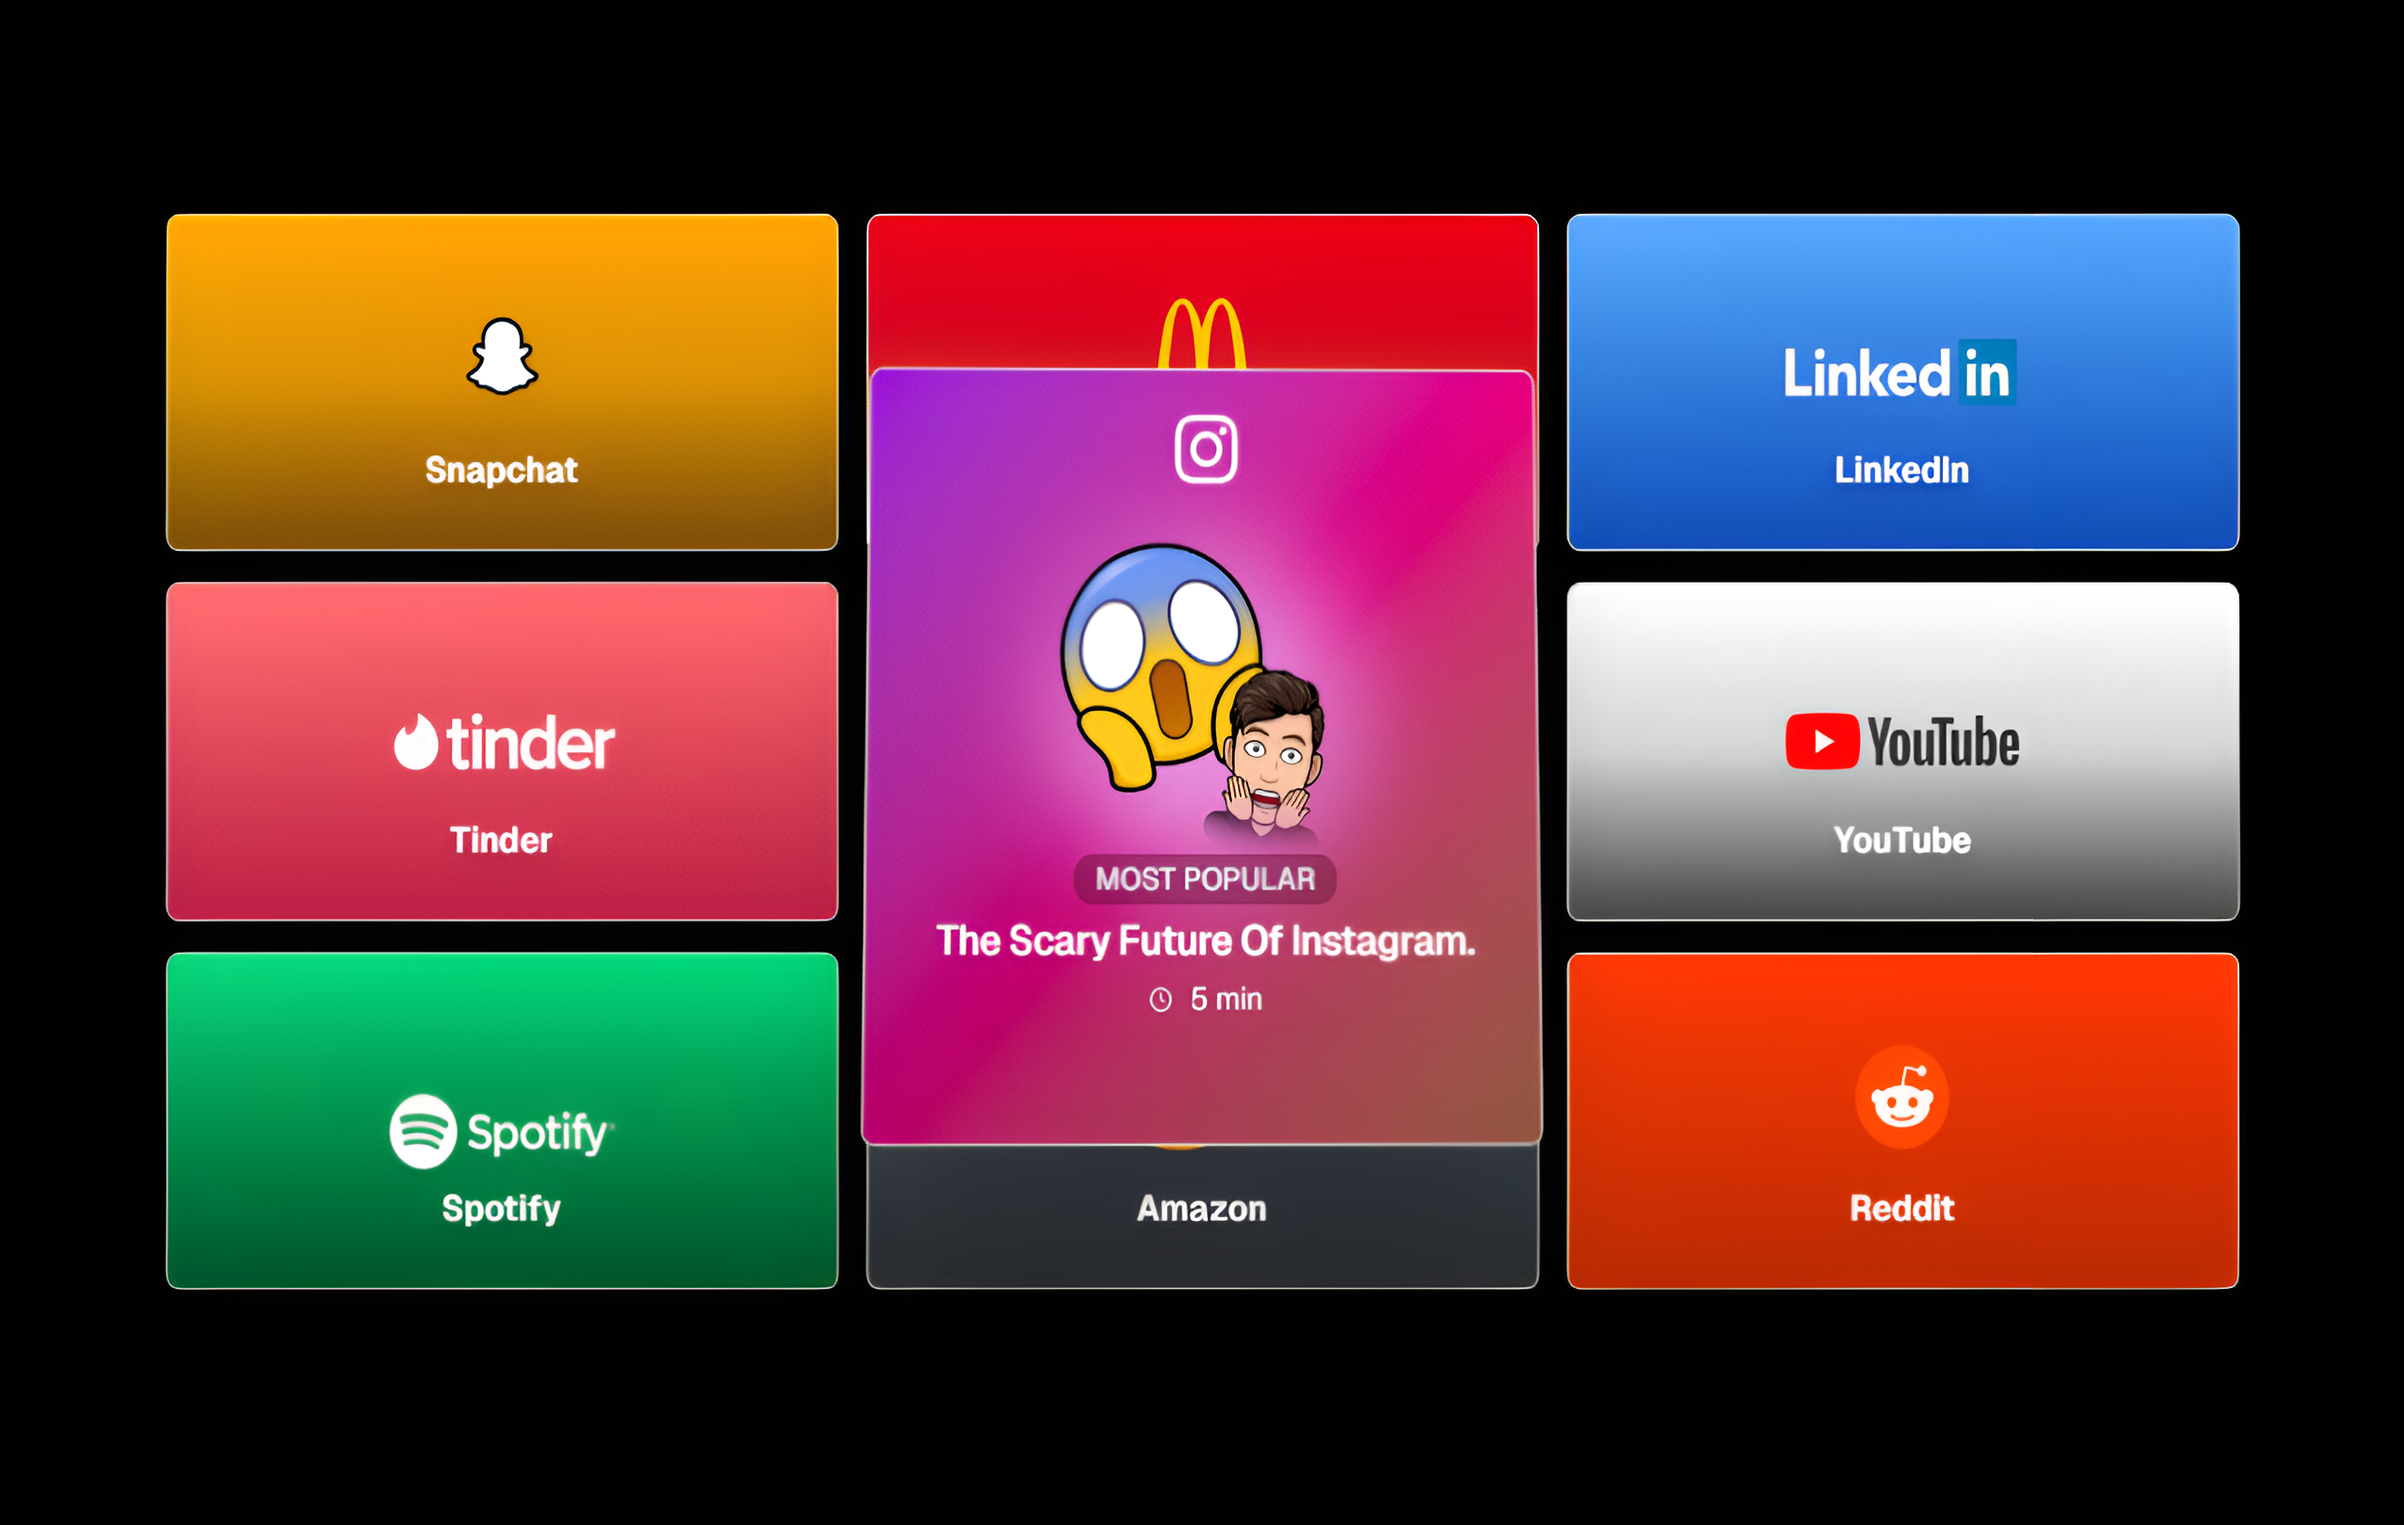
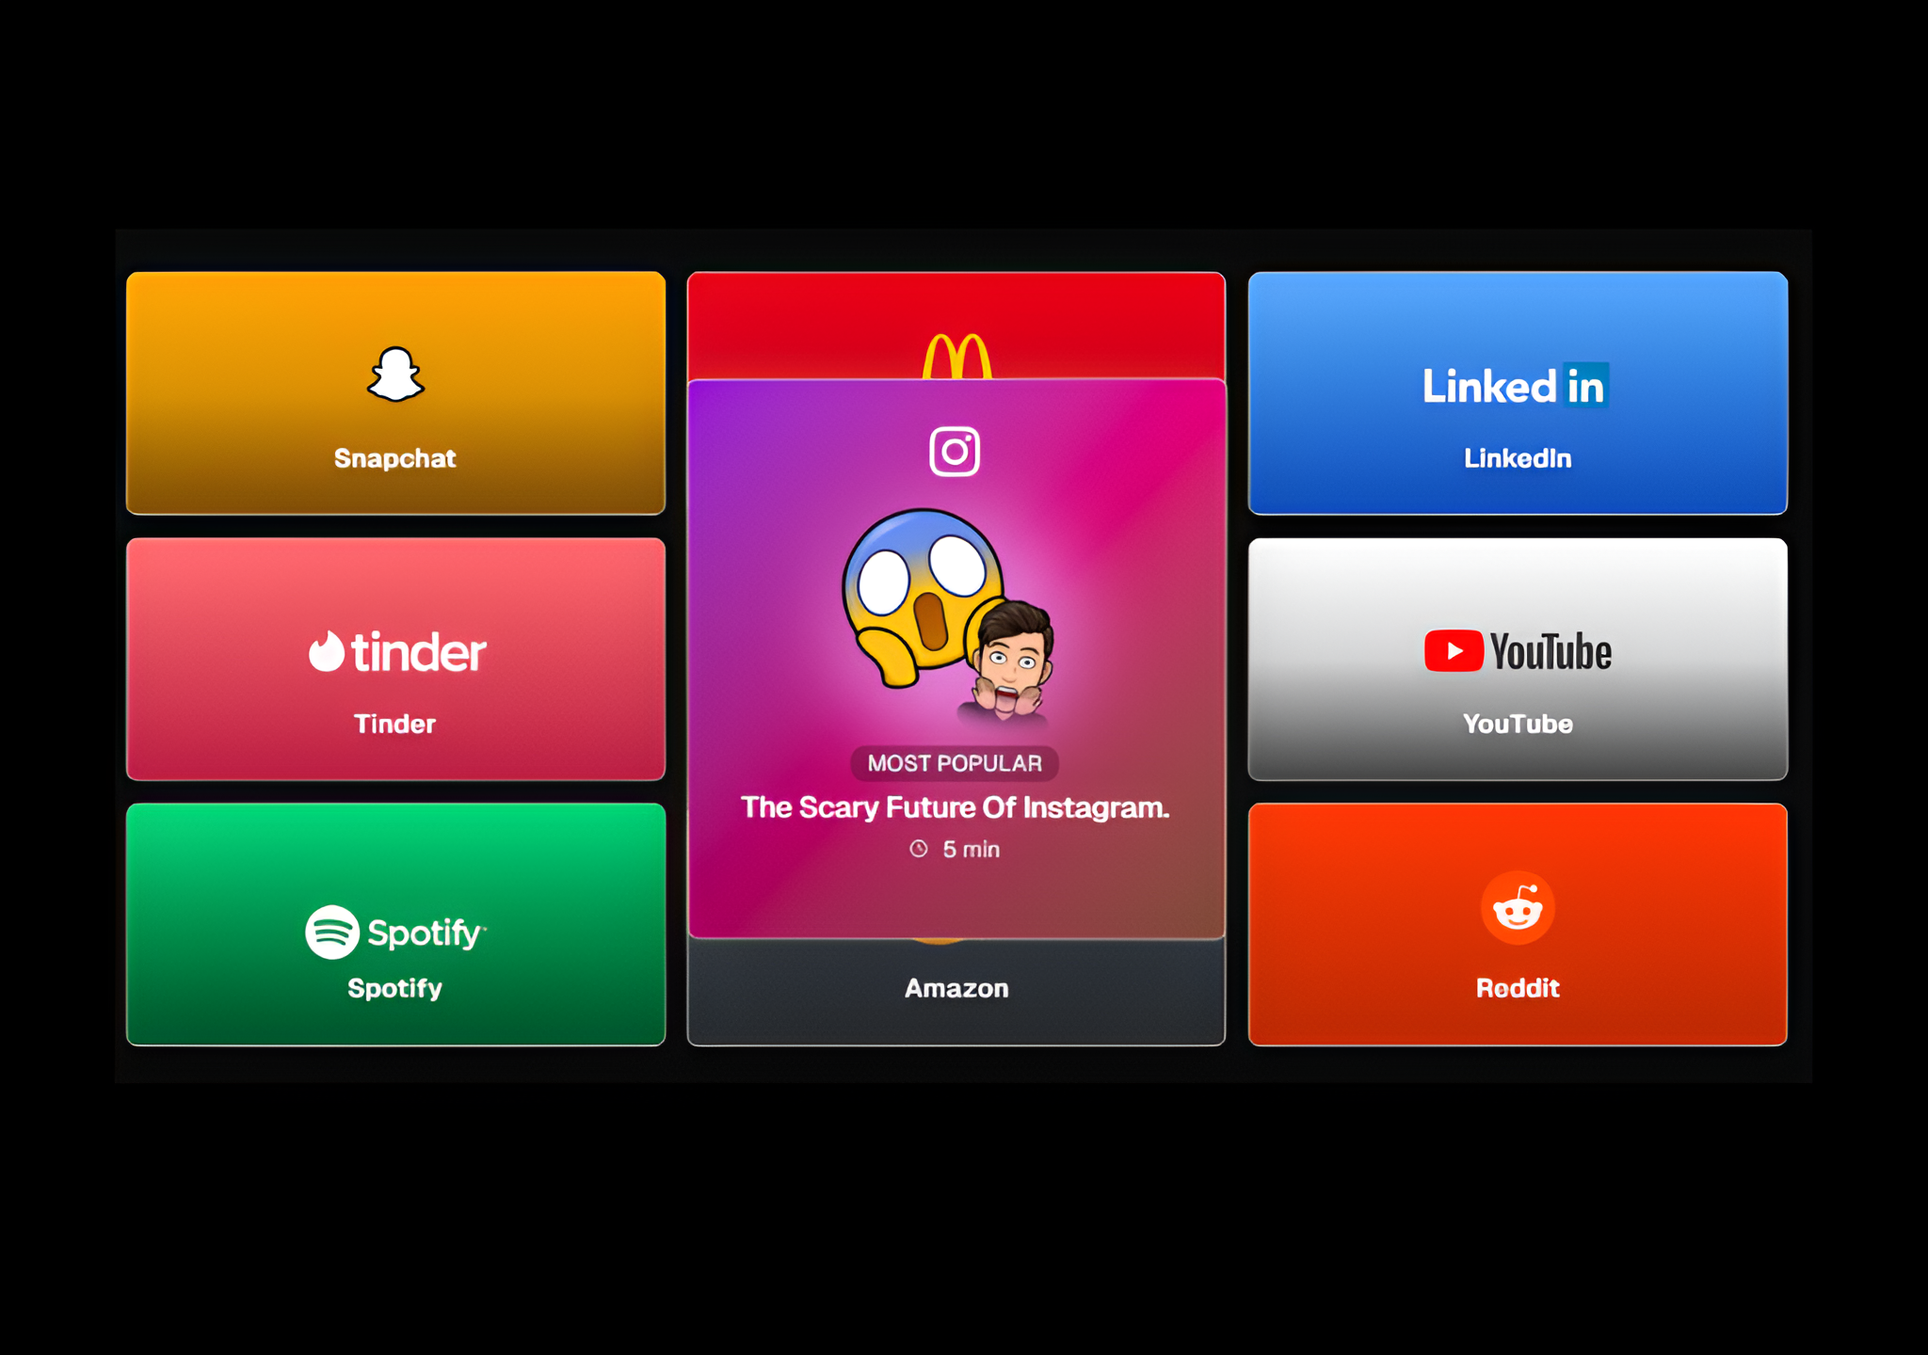
updated some images

diff --git a/components/components/ComponentCard.tsx b/components/components/ComponentCard.tsx
@@ -21,7 +21,7 @@ export function ComponentCard({
             src={imageSrc}
             alt={title}
             width={1024}
-            height={1020}
+            height={720}
             quality={100}
             decoding="async"
             className="transition duration-300 blur-0 rounded-md group-hover:scale-102"
